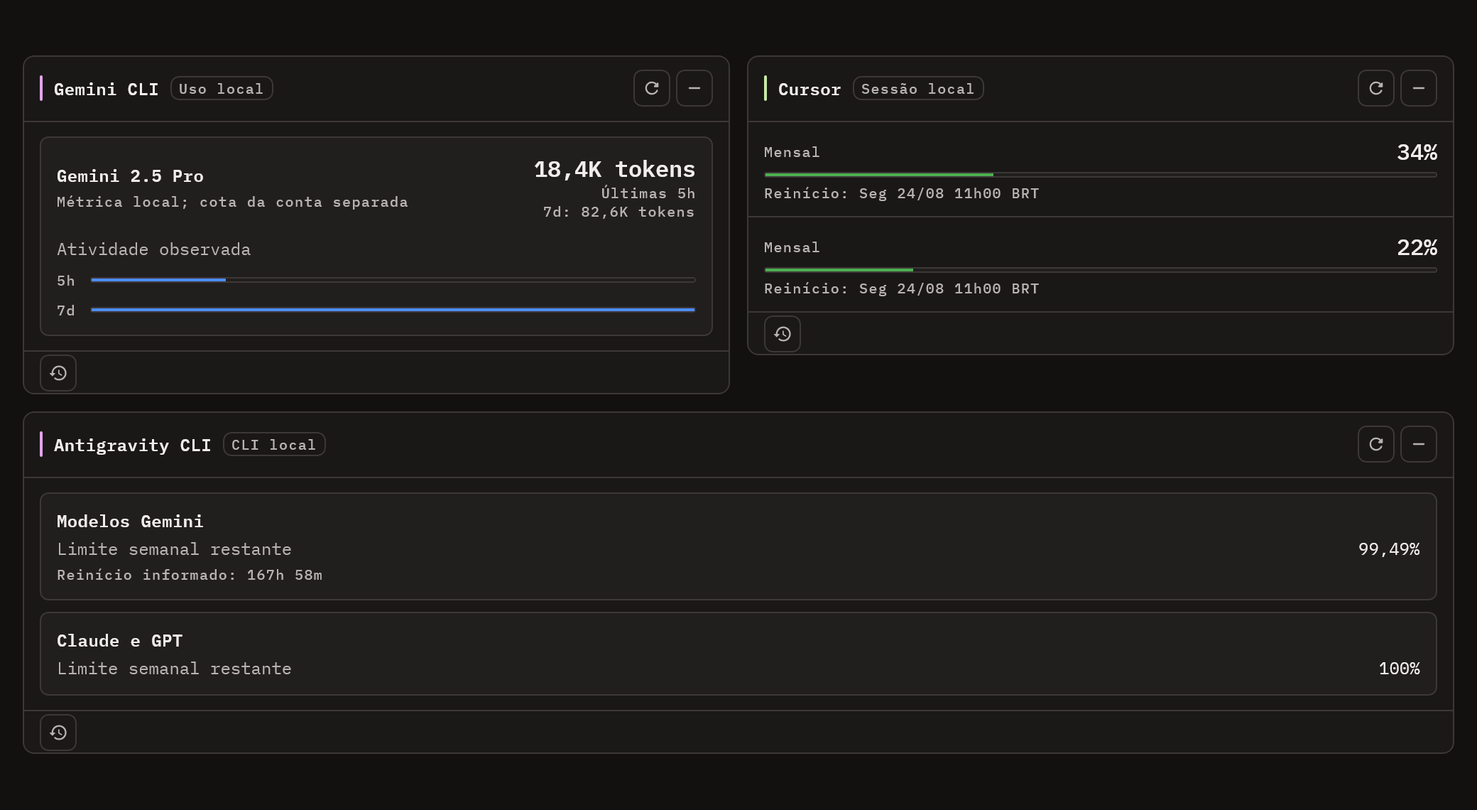
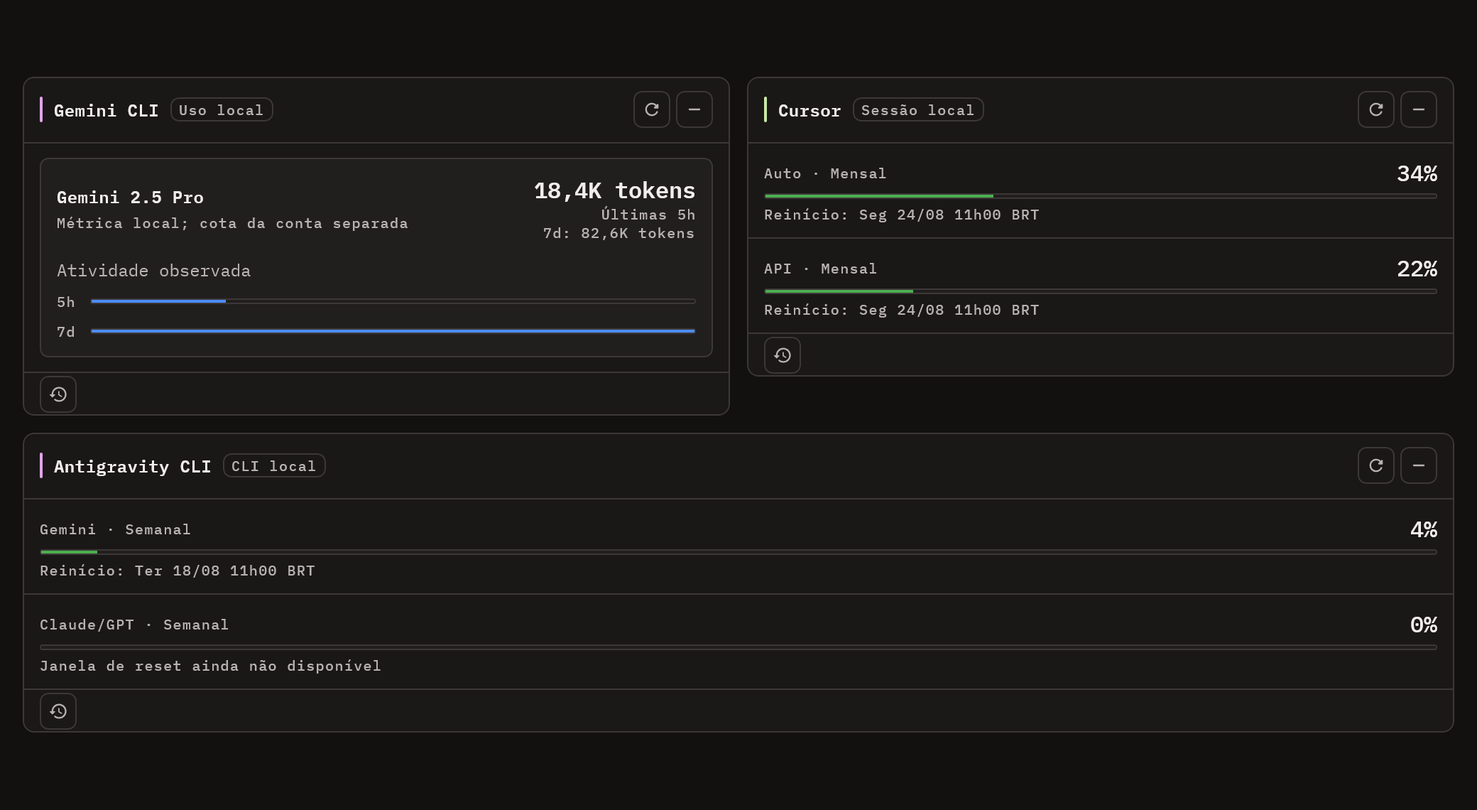
docs(integrations): sync design system, prototype and screenshots for #267
- restore the accent rationale the first commit deleted from the
  design system and record the --gemini (~294 deg) and --cursor
  (~90 deg) decision: >=20 deg from their neighbours, hue kept in the
  light variant, Gemini CLI and Antigravity sharing Google's accent
- update the mandatory prototype (docs/planos), not only the uploads
  copy: new section 4e with the three cards and the configuration
  banner, legend, Settings rows and two checklist entries
- align the uploads copy and the UI kit with the shipped cards: the
  Antigravity per-group quotas, Cursor allowance titles, no Gemini
  "no local history" banner, the restored threshold coverage copy
- regenerate img/new-integrations.png

Changed region(s): [[0.0312, 0.0614, 0.9688, 0.9211]]

diff --git a/docs/planos/prototipo-visual-opencode.html b/docs/planos/prototipo-visual-opencode.html
@@ -35,6 +35,8 @@
   --oc:         #7BD389;
   --kilo:       #E6D84E;
   --openrouter: #FF6FA8;
+  --gemini:     #E2A5E9;
+  --cursor:     #C7E9A5;
 
   --input:     #4C8DFF;
   --output:    #B07CFF;
@@ -70,7 +72,7 @@
 
     --anthropic:#1565C0; --codex:#00695C; --deepseek:#7B3FC4;
     --minimax:  #9A4A00; --oc:   #2E7D32; --kilo:    #5F5500;
-    --openrouter:#B23368;
+    --openrouter:#B23368; --gemini:#7C1D87; --cursor:#477915;
 
     --input:#1565C0; --output:#6A3FB5; --cread:#2E7D32;
     --cwrite:#8A5000; --savings:#00697A;
@@ -95,7 +97,7 @@
 
   --anthropic:#1565C0; --codex:#00695C; --deepseek:#7B3FC4;
   --minimax:  #9A4A00; --oc:   #2E7D32; --kilo:    #5F5500;
-  --openrouter:#B23368;
+  --openrouter:#B23368; --gemini:#7C1D87; --cursor:#477915;
 
   --input:#1565C0; --output:#6A3FB5; --cread:#2E7D32;
   --cwrite:#8A5000; --savings:#00697A;
@@ -110,6 +112,7 @@
   --ok:#4CAF50; --warn:#FFA726; --crit:#E86A6A; --info:#4C8DFF;
   --anthropic:#4F8CFF; --codex:#27BFA3; --deepseek:#C084FC;
   --minimax:#FF8A3D; --oc:#7BD389; --kilo:#E6D84E; --openrouter:#FF6FA8;
+  --gemini:#E2A5E9; --cursor:#C7E9A5;
   --input:#4C8DFF; --output:#B07CFF; --cread:#4CAF50;
   --cwrite:#FFA726; --savings:#26C6DA;
   --shadow-2: 0 1px 2px rgb(0 0 0 / .40);
@@ -482,6 +485,7 @@ table.dt td.num, table.dt th.num { text-align: right; }
   <a href="#dash-estados">Dashboard · estados</a>
   <a href="#atualizacao">Faixa de atualização</a>
   <a href="#novidades">Novidades da versão</a>
+  <a href="#integracoes-267">Gemini, Cursor e Antigravity</a>
   <a href="#historico">Histórico</a>
   <a href="#sessoes">Sessões CLI</a>
   <a href="#detalhe">Detalhe de sessão</a>
@@ -544,7 +548,7 @@ table.dt td.num, table.dt th.num { text-align: right; }
 </div>
 <p class="note">Todo estado carrega <b>ponto + palavra</b>. A cor reforça, não informa sozinha — é o que mantém a tela legível para quem não distingue as matizes.</p>
 
-<h3>Identidade das sete integrações</h3>
+<h3>Identidade dos fornecedores monitorados</h3>
 <div class="legend" style="margin-bottom:var(--s2)">
   <span><i style="background:var(--anthropic)"></i>Anthropic</span>
   <span><i style="background:var(--codex)"></i>Codex</span>
@@ -553,8 +557,10 @@ table.dt td.num, table.dt th.num { text-align: right; }
   <span><i style="background:var(--oc)"></i>OpenCode</span>
   <span><i style="background:var(--kilo)"></i>Kilo</span>
   <span><i style="background:var(--openrouter)"></i>OpenRouter</span>
+  <span><i style="background:var(--gemini)"></i>Google · Gemini CLI e Antigravity</span>
+  <span><i style="background:var(--cursor)"></i>Cursor</span>
 </div>
-<p class="note">Os acentos são os que já passam no <code>AppAccentsContrastTest</code> (AA 4,5:1 nas duas superfícies, matiz preservada entre temas, 20° de separação entre si). <b>Não mudam.</b> O que muda é a área: de fundo de card inteiro para um marcador de 2px, linha de gráfico e texto de valor. E a cor <code>opencode</code> continua sendo a da <b>integração</b> monitorada — não vira a cor da marca do app.</p>
+<p class="note">Os acentos são os que já passam no <code>AppAccentsContrastTest</code> (AA 4,5:1 nas duas superfícies, matiz preservada entre temas, 20° de separação entre si). <b>Não mudam sem decisão registrada</b> no <code>readme.md</code> do design system — foi assim que <code>--gemini</code> (~294°) e <code>--cursor</code> (~90°) entraram na issue #267. Nove acentos cobrem onze fontes: <code>--oc</code> é do OpenCode (Zen Free e Go) e <code>--gemini</code> é do Google (Gemini CLI e Antigravity). O que muda é a área: de fundo de card inteiro para um marcador de 2px, linha de gráfico e texto de valor. E a cor <code>opencode</code> continua sendo a da <b>integração</b> monitorada — não vira a cor da marca do app.</p>
 
 <h3 id="temas">Presets configuráveis — 8 claros e 8 escuros</h3>
 <p class="lede">O seletor da aplicação apresenta a mesma grade abaixo em Configurações → Geral. Cada cartão expõe a família de superfícies e seu acento estrutural; a seleção persistida vale para todas as janelas. Os marcadores de sucesso, atenção, erro e as cores das integrações permanecem semânticos.</p>
@@ -1000,7 +1006,7 @@ atenção: …"), que é a razão de o semáforo existir e o que os testes de co
 onde levá-la. O rodapé da janela vira <b>status bar de 30dp</b>: versão, contagem regressiva, refresh global e
 configurações. A contagem de fontes desenhada aqui como <code>4 fontes</code> <b>não foi implementada</b>: ela afirma um
 estado agregado que o app não calcula, e com uma fonte em erro o verde mentiria — escolher o tom seria inventar
-semântica que este protótipo não define. Falha de fonte já tem o banner por alvo. Preservados: múltiplos perfis Anthropic, as seis integrações, refresh individual, histórico, sessões CLI, uso do time, presença, minimização, reordenação, semáforo de risco, avisos persistentes, atualização disponível e sucesso parcial.</p>
+semântica que este protótipo não define. Falha de fonte já tem o banner por alvo. Preservados: múltiplos perfis Anthropic, todas as integrações, refresh individual, histórico, sessões CLI, uso do time, presença, minimização, reordenação, semáforo de risco, avisos persistentes, atualização disponível e sucesso parcial.</p>
 
 <h3>Acesso rápido aos modos de janela</h3>
 <p class="lede">O rodapé ganha um ícone que abre um menu com as três molduras — padrão, somente os cards e barra HUD —, com a corrente marcada (issue #187). Antes delas só existiam duas portas escondidas: dois interruptores no meio da seção "Sistema" das Configurações e duas combinações de teclado, e os dois modos alternativos só eram descobertos por acidente.</p>
@@ -1265,6 +1271,55 @@ semântica que este protótipo não define. Falha de fonte já tem o banner por 
 <p class="note"><b>O recibo do instalador não é o gatilho</b>, e chegou a ser (issue #127). No Windows o instalador o grava <b>antes</b> de relançar o app; no Linux o script só o grava <b>depois do ACK</b>, que é escrito pelo app novo já em execução — quando ele lê o arquivo, ele ainda descreve a atualização anterior. Com o recibo como condição, a janela não aparecia no Linux, em instalação manual nem no macOS, que não tem instalador automático. Ele continua dizendo <span class="v sm">Atualizado de 37.0.0</span> quando descreve a troca que trouxe o binário em execução; fora disso quem responde é a própria marca.</p>
 
 <p class="note"><b>Dois silêncios, e os dois gravam a marca.</b> <b>Instalação nova</b> — sem marca e sem recibo — não abre janela nenhuma: "novidades" para quem não tem versão anterior não descreve mudança. <b>Retrocesso</b> também não abre: anunciar a 38.0.1 vindo da 38.0.2 seria falso, e é esse ramo que reconcilia a marca depois de um rollback do updater. Nos dois casos não há requisição — pedir a release de uma versão que não vamos anunciar é rede gasta por nada.</p>
+
+<!-- ═══════════════════════════════ ISSUE #267 ═══════════════════════ -->
+<h2 id="integracoes-267">4e · Gemini CLI, Cursor e Antigravity</h2>
+<p class="lede">Três integrações com três naturezas de dado diferentes, e o card de cada uma diz qual é. Nenhuma inventa número que a fonte não informou.</p>
+<div class="g2">
+  <div>
+    <div class="cap">Gemini CLI · atividade observada</div>
+    <div class="panel">
+      <div class="phead"><span class="srcmark" style="background:var(--gemini)"></span><div class="stack" style="gap:0"><span class="ptitle">Gemini CLI</span><span class="psub">sessões locais · tokens observados</span></div><span class="sp"></span><span class="st ok">Uso local</span><button class="btn icon" type="button" aria-label="Atualizar">↻</button><button class="btn icon" type="button" aria-label="Minimizar card">–</button></div>
+      <div class="pbody flush">
+        <div class="row"><span class="k">gemini-2.5-pro</span><span class="sp"></span><span class="v">18,4 mil tok</span></div>
+        <div class="row"><span class="k">5h</span><span class="track info" style="flex:1"><i style="width:22%"></i></span><span class="v" style="white-space:nowrap;min-width:42px">18,4 mil</span></div>
+        <div class="row"><span class="k">7d</span><span class="track info" style="flex:1"><i style="width:100%"></i></span><span class="v" style="white-space:nowrap;min-width:42px">82,6 mil</span></div>
+      </div>
+    </div>
+  </div>
+  <div>
+    <div class="cap">Cursor · franquias do ciclo</div>
+    <div class="panel">
+      <div class="phead"><span class="srcmark" style="background:var(--cursor)"></span><div class="stack" style="gap:0"><span class="ptitle">Cursor</span><span class="psub">sessão local do editor</span></div><span class="sp"></span><span class="st ok">Normal</span><button class="btn icon" type="button" aria-label="Atualizar">↻</button><button class="btn icon" type="button" aria-label="Minimizar card">–</button></div>
+      <div class="pbody flush">
+        <div class="row"><div class="stack" style="gap:3px;flex:1"><div class="hstack"><span class="k">Auto · Mensal</span><span class="sp"></span><span class="v">34%</span></div><div class="track ok"><i style="width:34%"></i></div><span class="k dim">Reinício: Qui 01/10 00h00 BRT</span></div></div>
+        <div class="row"><div class="stack" style="gap:3px;flex:1"><div class="hstack"><span class="k">API · Mensal</span><span class="sp"></span><span class="v">11%</span></div><div class="track ok"><i style="width:11%"></i></div></div></div>
+      </div>
+    </div>
+  </div>
+  <div>
+    <div class="cap">Antigravity CLI · um limite semanal por grupo de modelos</div>
+    <div class="panel">
+      <div class="phead"><span class="srcmark" style="background:var(--gemini)"></span><div class="stack" style="gap:0"><span class="ptitle">Antigravity CLI</span><span class="psub">agy --print /usage</span></div><span class="sp"></span><span class="st ok">Normal</span><button class="btn icon" type="button" aria-label="Atualizar">↻</button><button class="btn icon" type="button" aria-label="Minimizar card">–</button></div>
+      <div class="pbody flush">
+        <div class="row"><div class="stack" style="gap:3px;flex:1"><div class="hstack"><span class="k">Gemini · Semanal</span><span class="sp"></span><span class="v">5%</span></div><div class="track ok"><i style="width:5%"></i></div><span class="k dim">Reinício: Qua 30/09 18h57 BRT</span></div></div>
+        <div class="row"><div class="stack" style="gap:3px;flex:1"><div class="hstack"><span class="k">Claude/GPT · Semanal</span><span class="sp"></span><span class="v">0%</span></div><div class="track"><i style="width:0%"></i></div></div></div>
+      </div>
+    </div>
+  </div>
+  <div>
+    <div class="cap">Configuração pendente — banner sem "Tentar novamente"</div>
+    <div class="panel">
+      <div class="phead"><span class="srcmark" style="background:var(--gemini)"></span><span class="ptitle">Antigravity CLI</span><span class="sp"></span><span class="st off">Indisponível</span></div>
+      <div class="pbody">
+        <div class="banner warn"><span class="bar"></span><span class="bd"><b>Antigravity CLI não encontrado</b><br>Instale o Antigravity CLI (agy) ou desative esta integração em Configurações &gt; APIs. O monitor procura o executável agy em %LOCALAPPDATA%\agy\bin e no PATH, nunca um atalho .cmd ou .bat.</span></div>
+      </div>
+    </div>
+  </div>
+</div>
+<p class="note"><b>Gemini CLI é atividade observada</b>, com o mesmo desenho do OpenCode Zen Free e do Kilo: tokens por modelo em 5h e 7d, sem barra de percentual contra teto, porque contagem local não conhece limite da conta Google. Sem <code>~/.gemini/tmp</code> o card mostra o estado vazio e <b>não</b> um banner — o Gemini CLI nunca rodou na máquina.</p>
+<p class="note"><b>Cursor e Antigravity são cotas</b>, e por isso entram em histórico, limiar, projeção e HUD. As duas fontes têm mais de uma cota do mesmo <code>periodType</code> — franquias do mesmo ciclo mensal, um limite semanal por grupo de modelos —, e o título do bloco leva o nome da franquia ou do grupo antes da janela: sem isso, dois blocos diriam "Semanal". A janela intacta do Antigravity (<code>Claude/GPT</code> em 0%) <b>não mostra reinício</b>: o CLI informa "agora + 7 dias", que anda a cada chamada.</p>
+<p class="note"><b>Falha que não se resolve tentando de novo é configuração.</b> Não instalado, versão do CLI anterior à verificada, sessão ausente ou recusada, plano do Cursor sem nada medido e a coleta do Antigravity pausada pelo disjuntor saem como banner sem botão e sem toast a cada coleta. Quando a coleta falha depois de uma leitura boa, o card mantém os números com o aviso de exclamação no cabeçalho: "A coleta mais recente falhou. Os números são da última leitura válida e podem estar desatualizados."</p>
 
 <!-- ═══════════════════════════════ HISTÓRICO ═════════════════════════ -->
 <h2 id="historico">5 · Histórico</h2>
@@ -1907,6 +1962,9 @@ caso que a detecção existe para pegar. <b>Desligado o interruptor, o segmentad
     <div class="row"><span class="srcmark" style="background:var(--oc)"></span><span class="v sm" style="flex:1">OpenCode Go</span><span class="st ok">Chave configurada</span><button class="btn ghost icon" type="button" aria-label="Gerenciar chave">✎</button><span class="sw on"></span></div>
     <div class="row"><span class="srcmark" style="background:var(--openrouter)"></span><span class="v sm" style="flex:1">OpenRouter</span><span class="st ok">Chave configurada</span><button class="btn ghost icon" type="button" aria-label="Gerenciar chave">✎</button><span class="sw on"></span></div>
     <div class="row"><span class="srcmark" style="background:var(--kilo)"></span><span class="v sm" style="flex:1">Kilo Free</span><span class="st off">Desativada</span><span class="sw"></span></div>
+    <div class="row"><span class="srcmark" style="background:var(--gemini)"></span><span class="v sm" style="flex:1">Gemini CLI</span><span class="st off">Desativada</span><span class="sw"></span></div>
+    <div class="row"><span class="srcmark" style="background:var(--cursor)"></span><span class="v sm" style="flex:1">Cursor</span><span class="st off">Desativada</span><span class="sw"></span></div>
+    <div class="row"><span class="srcmark" style="background:var(--gemini)"></span><span class="v sm" style="flex:1">Antigravity CLI</span><span class="st off">Desativada</span><span class="sw"></span></div>
   </div></div></div>
 </div>
 <p class="note"><b>Ativação de MiniMax, DeepSeek, OpenCode Go e OpenRouter.</b> Ao ligar uma dessas integrações sem chave cadastrada, o interruptor não é persistido imediatamente: abre-se o diálogo abaixo. A chave é mascarada por padrão, pode ser revelada pelo olho e só habilita a integração depois de <b>Salvar</b>. Ela fica em armazenamento local protegido; variáveis de ambiente não são lidas.</p>
@@ -2177,6 +2235,8 @@ O app fechou inesperadamente.
 <!-- ═══════════════════════════════ CHECKLIST ═════════════════════════ -->
 <h2 id="checklist">15 · O que este protótipo não decide</h2>
 <div class="panel"><div class="pbody flush">
+  <div class="row"><span class="st warn">Risco conhecido</span><span class="v sm" style="flex:1">O Cursor usa <code>cursor.com/api/usage-summary</code>, rota <b>não documentada</b>. Formato novo vira falha que preserva a última leitura, nunca consumo zero — mas só fixtures cobrem o Cursor: ele não está instalado na máquina de desenvolvimento</span><span class="k">issue #267</span></div>
+  <div class="row"><span class="st warn">Decisão registrada</span><span class="v sm" style="flex:1">O Antigravity lê <code>agy --print /usage</code>, que a doc oficial diz ser respondido pelo próprio CLI; a issue vetava <code>-p</code> por consumo. O portão é a versão medida (1.2.9) e o disjuntor exige <code>num_turns = 0</code> e <code>total_tokens = 0</code> no envelope</span><span class="k">issue #267</span></div>
   <div class="row"><span class="st warn">A verificar</span><span class="v sm" style="flex:1">Assinatura exata da API de carregamento de fonte no Compose Desktop 1.7.1</span><span class="k">commit C3</span></div>
   <div class="row"><span class="st warn">Risco aceito</span><span class="v sm" style="flex:1">O <code>.icns</code> só é validável no job <code>build-macos</code> do release</span><span class="k">commit J2</span></div>
   <div class="row"><span class="st warn">Risco conhecido</span><span class="v sm" style="flex:1">Fonte embutida no PDFBox recalcula largura de todas as colunas</span><span class="k">commit K1</span></div>

diff --git a/docs/design-system/uploads/prototipo-visual-opencode.html b/docs/design-system/uploads/prototipo-visual-opencode.html
@@ -549,7 +549,6 @@ table.dt td.num, table.dt th.num { text-align: right; }
     <div class="phead"><span class="ptitle">AppBanner</span></div>
     <div class="pbody">
       <div class="banner warn"><span class="bar"></span><div class="stack" style="gap:2px"><span class="bt">Anthropic — Padrão</span><span class="bd">Limite de requisições atingido. Aguarde antes de tentar de novo.</span></div><span class="sp"></span><button class="btn ghost" type="button">Tentar de novo</button></div>
-      <div class="banner warn"><span class="bar"></span><div class="stack" style="gap:2px"><span class="bt">Gemini CLI sem histórico local</span><span class="bd">Nenhuma sessão local foi encontrada para este perfil. Use o Gemini CLI neste perfil e atualize o monitor novamente.</span></div></div>
       <div class="banner crit"><span class="bar"></span><div class="stack" style="gap:2px"><span class="bt">Créditos de uso indisponíveis</span><span class="bd">A resposta veio sem limite mensal. A linha de créditos não é exibida nesta coleta.</span></div></div>
       <div class="banner info"><span class="bar"></span><div class="stack" style="gap:2px"><span class="bt">Versão 36.0.0 disponível</span></div><span class="sp"></span><button class="btn ghost" type="button">Ver release</button></div>
     </div>
@@ -752,13 +751,13 @@ table.dt td.num, table.dt th.num { text-align: right; }
       <!-- Cursor · sessão pessoal existente -->
       <div class="panel">
         <div class="phead"><span class="srcmark" style="background:var(--cursor)"></span><span class="ptitle">Cursor</span><span class="sp"></span><span class="st ok">Normal</span><button class="btn icon" type="button" aria-label="Atualizar">↻</button><button class="btn icon" type="button" aria-label="Minimizar card">–</button></div>
-        <div class="pbody flush"><div class="row"><div class="stack" style="gap:3px;flex:1"><div class="hstack"><span class="k">Auto</span><span class="sp"></span><span class="v">38%</span></div><div class="track ok"><i style="width:38%"></i></div><span class="k dim">Fim do ciclo informado: 01/10/2026</span></div></div><div class="row"><div class="stack" style="gap:3px;flex:1"><div class="hstack"><span class="k">API</span><span class="sp"></span><span class="v">11%</span></div><div class="track ok"><i style="width:11%"></i></div></div></div></div>
+        <div class="pbody flush"><div class="row"><div class="stack" style="gap:3px;flex:1"><div class="hstack"><span class="k">Auto · Mensal</span><span class="sp"></span><span class="v">38%</span></div><div class="track ok"><i style="width:38%"></i></div><span class="k dim">Fim do ciclo informado: 01/10/2026</span></div></div><div class="row"><div class="stack" style="gap:3px;flex:1"><div class="hstack"><span class="k">API · Mensal</span><span class="sp"></span><span class="v">11%</span></div><div class="track ok"><i style="width:11%"></i></div></div></div></div>
       </div>
 
-      <!-- Antigravity CLI · campos textuais explícitos de /usage -->
+      <!-- Antigravity CLI · um limite semanal por grupo de modelos, lido de agy --print /usage -->
       <div class="panel">
-        <div class="phead"><span class="srcmark" style="background:var(--gemini)"></span><div class="stack" style="gap:0"><span class="ptitle">Antigravity CLI</span><span class="psub">painel oficial /usage</span></div><span class="sp"></span><span class="st ok">Informado pelo CLI</span><button class="btn icon" type="button" aria-label="Atualizar">↻</button><button class="btn icon" type="button" aria-label="Minimizar card">–</button></div>
-        <div class="pbody flush"><div class="row"><div class="stack" style="gap:var(--s1);flex:1"><span class="v sm">Modelos Gemini</span><span class="k">Limite semanal restante · 99,49%</span><span class="k dim">Reinício informado · 167h 58m</span></div></div><div class="row"><div class="stack" style="gap:var(--s1);flex:1"><span class="v sm">Claude e GPT</span><span class="k">Limite semanal restante · 100%</span></div></div></div>
+        <div class="phead"><span class="srcmark" style="background:var(--gemini)"></span><div class="stack" style="gap:0"><span class="ptitle">Antigravity CLI</span><span class="psub">agy --print /usage</span></div><span class="sp"></span><span class="st ok">Normal</span><button class="btn icon" type="button" aria-label="Atualizar">↻</button><button class="btn icon" type="button" aria-label="Minimizar card">–</button></div>
+        <div class="pbody flush"><div class="row"><div class="stack" style="gap:3px;flex:1"><div class="hstack"><span class="k">Gemini · Semanal</span><span class="sp"></span><span class="v">5%</span></div><div class="track ok"><i style="width:5%"></i></div><span class="k dim">Reinício: Qua 30/09 18h57 BRT</span></div></div><div class="row"><div class="stack" style="gap:3px;flex:1"><div class="hstack"><span class="k">Claude/GPT · Semanal</span><span class="sp"></span><span class="v">0%</span></div><div class="track"><i style="width:0%"></i></div></div></div></div>
       </div>
 
     </div>
@@ -840,7 +839,7 @@ semântica que este protótipo não define. Falha de fonte já tem o banner por 
         <span class="k">Atualizando…</span>
         <button class="btn icon" type="button" disabled aria-label="Atualizando">↻</button>
       </div>
-  <div class="pbody flush">
+      <div class="pbody flush">
         <div class="row"><div class="stack" style="gap:3px;flex:1;opacity:.5">
           <div class="hstack"><span class="k">Codex atual</span><span class="sp"></span><span class="v">23%</span></div>
           <div class="track"><i style="width:23%"></i></div>

diff --git a/docs/design-system/ui_kits/desktop-app/Settings.jsx b/docs/design-system/ui_kits/desktop-app/Settings.jsx
@@ -20,9 +20,9 @@ const APIS = [
   { nome: 'OpenCode Go', source: 'opencode', origem: 'GET opencode.ai/zen/go/v1/usage', req: 'chave da API do OpenCode', on: true },
   { nome: 'Kilo Free', source: 'kilo', origem: 'leitura local de kilo.db', req: 'base local do Kilo', on: false },
   { nome: 'OpenRouter', source: 'openrouter', origem: 'GET openrouter.ai/api/v1/credits', req: 'chave da API do OpenRouter', on: true },
-  { nome: 'Gemini CLI', source: 'gemini', origem: 'leitura local de ~/.gemini/tmp/*/chats/session-*.jsonl', req: 'sessões existentes; tokens não representam quota', on: false },
+  { nome: 'Gemini CLI', source: 'gemini', origem: 'leitura local de ~/.gemini/tmp/*/chats/*.jsonl', req: 'sessões existentes; tokens não representam quota', on: false },
   { nome: 'Cursor', source: 'cursor', origem: 'GET cursor.com/api/usage-summary (rota pessoal sem contrato público)', req: 'sessão existente em state.vscdb', on: false },
-  { nome: 'Antigravity CLI', source: 'gemini', origem: 'comando oficial interativo /usage', req: 'agy no PATH e CLI autenticado', on: false }
+  { nome: 'Antigravity CLI', source: 'gemini', origem: 'agy --print /usage (respondido pelo CLI, sem turno de modelo)', req: 'agy 1.2.9+ instalado e autenticado', on: false }
 ];
 
 export function Settings() {
@@ -67,14 +67,15 @@ export function Settings() {
                 <AppTextField label="Crítico" value="90" style={{ width: 90 }} />
                 <AppTextField label="Esgotado" value="100" style={{ width: 90 }} />
               </div>
-              {/* O alcance é declarado na tela (issue #194): saldo pré-pago não tem
-                  teto percentual, e atividade ou métricas fora do modelo de cotas
-                  não passam pelo limiar. A frase sai sempre, inclusive com o alerta
+              {/* O alcance é declarado na tela (issue #194): saldo pré-pago nasce com
+                  used = 0 e atividade observada com total = 0, então nessas cinco
+                  fontes nenhum limiar é avaliado. Antigravity e Cursor são cotas e
+                  entram (issue #267). A frase sai sempre, inclusive com o alerta
                   desligado — ali ela explica o que ligar não vai cobrir. */}
               <span style={{ fontFamily: 'var(--sans)', fontSize: 'var(--t12)', color: 'var(--muted)' }}>
-                O limiar é avaliado contra cotas normalizadas. Saldo pré-pago não tem teto
-                (DeepSeek, OpenRouter); atividade observada ou métricas fora do modelo de cotas
-                (Antigravity CLI, Gemini CLI, Kilo Free, OpenCode Zen Free) não passam por essa avaliação.
+                O limiar mede percentual contra o teto da cota. Saldo pré-pago não tem teto
+                (DeepSeek, OpenRouter) e atividade observada não informa limite
+                (OpenCode Zen Free, Kilo Free, Gemini CLI): nessas fontes nenhum limiar é avaliado.
               </span>
               <AppSwitch checked label="Alertar quando uma sessão CLI saturar" />
               <AppSwitch checked label="Notificação nativa do sistema" />

diff --git a/docs/design-system/ui_kits/desktop-app/Dashboard.jsx b/docs/design-system/ui_kits/desktop-app/Dashboard.jsx
@@ -216,7 +216,7 @@ const CARDS = [
     tooltip: 'Tokens locais observados. A quota da conta Google é uma medida separada.',
     nav: 0,
     reported: [
-      { label: 'Gemini 3.1 Pro · tokens (5h)', value: '18,4 mil', detail: 'Tokens e sessões locais; quota da conta separada' },
+      { label: 'Gemini 3.1 Pro · tokens (5h)', value: '18,4 mil', detail: 'Tokens locais; quota da conta separada' },
       { label: 'Gemini 3.1 Pro · tokens (7d)', value: '142 mil' }
     ]
   },
@@ -230,22 +230,22 @@ const CARDS = [
     tooltip: 'Percentuais fornecidos pela sessão do Cursor; rota pessoal sem contrato público.',
     nav: 0,
     quotas: [
-      { label: 'Auto', value: '38%', percent: 38, level: 'ok', reset: 'Fim do ciclo: 01/10/2026' },
-      { label: 'API', value: '11%', percent: 11, level: 'ok', reset: 'Fim do ciclo: 01/10/2026' }
+      { label: 'Auto · Mensal', value: '38%', percent: 38, level: 'ok', reset: 'Fim do ciclo: 01/10/2026' },
+      { label: 'API · Mensal', value: '11%', percent: 11, level: 'ok', reset: 'Fim do ciclo: 01/10/2026' }
     ]
   },
   {
     id: 'antigravity',
     source: 'gemini',
     title: 'Antigravity CLI',
-    subtitle: 'painel oficial /usage · cotas semanais informadas',
+    subtitle: 'agy --print /usage · um limite semanal por grupo de modelos',
     level: 'ok',
-    status: 'Informado pelo CLI',
-    tooltip: 'Percentuais restantes exibidos explicitamente em cotas compartilhadas por grupo.',
+    status: 'Normal',
+    tooltip: 'Cota por grupo de modelos, lida do /usage que o próprio CLI responde, sem turno de modelo.',
     nav: 0,
-    reported: [
-      { label: 'Modelos Gemini · limite semanal restante', value: '99,49%', detail: 'Reinício informado: 167h 58m' },
-      { label: 'Claude e GPT · limite semanal restante', value: '100%' }
+    quotas: [
+      { label: 'Gemini · Semanal', value: '5%', percent: 5, level: 'ok', reset: 'Reinício: Qua 30/09 18h57 BRT' },
+      { label: 'Claude/GPT · Semanal', value: '0%', percent: 0, level: 'neutral', reset: 'Janela de reset ainda não disponível' }
     ]
   }
 ];

diff --git a/docs/design-system/tokens/colors.css b/docs/design-system/tokens/colors.css
@@ -23,9 +23,12 @@
   --info:      #4C8DFF;
 
   /* integration identity — AA 4.5:1 on both surfaces, hue preserved across
-     themes, >=20 degrees apart from each other. Same-vendor tools may share
-     an accent; unrelated sources stay distinct. Gemini CLI and Antigravity
-     share Google's identity. */
+     themes, >=20 degrees apart from each other. These do not change without a
+     recorded decision in readme.md. Nine accents cover eleven sources: --oc is
+     the OpenCode vendor, worn by both the free Zen card and the paid Go card,
+     and --gemini is Google's, worn by Gemini CLI and Antigravity. --openrouter
+     and --cursor are their own identities — neither is the vendor of any
+     other source here. */
   --anthropic:  #4F8CFF;
   --codex:      #27BFA3;
   --deepseek:   #C084FC;

diff --git a/docs/design-system/readme.md b/docs/design-system/readme.md
@@ -69,14 +69,26 @@ the media query alone, because the app owns a theme switch that must win.
 Depth comes from the **1dp border and from spacing** — not from shadow, not from gradient.
 No accent glow on top of surfaces, no tinted cards, no colored card backgrounds.
 
-**Color area.** Integration accents target AA 4.5:1 on both surfaces, preserve hue across themes,
-and stay ≥20° apart when they represent different vendors. What changed from the old UI is the
-**area**: from whole-card fill to a 2px marker, a chart line, and value text.
+**Color area.** The nine integration accents are fixed (AA 4.5:1 on both surfaces, hue preserved
+across themes, ≥20° apart). What changed from the old UI is the **area**: from whole-card fill
+to a 2px marker, a chart line, and value text. `--oc` is the color of the monitored OpenCode
+integration — never the app's brand color.
 
-**Accent ownership.** The accent is the identity of the *vendor*, not of one card: OpenCode Zen
-Free and OpenCode Go share `--oc`, and Gemini CLI and Antigravity share `--gemini`. Other vendors
-keep distinct hues, with a 20° minimum separation. Same-vendor cards remain distinguishable by
-their names and metric labels; color never identifies a quota by itself.
+**Nine accents, eleven sources.** The accent is the identity of the *vendor*, not of one card:
+OpenCode Zen Free (read from the local SQLite) and OpenCode Go (the paid subscription, read over
+HTTP) are two sources that both wear `--oc`. Adding a hue would have to clear AA on both
+surfaces and stay ≥20° from all the others — a real cost, paid to distinguish two plans of the same
+product. What separates the two cards is the title, and "colour never informs alone" already
+guarantees that is enough. `--openrouter` does **not** reuse any other accent: OpenRouter is not the
+vendor of any source already monitored, so sharing a hue would visually associate two unrelated
+companies. Rose/magenta (~336°) fills the arc between `--deepseek` (270°) and `--minimax` (24°).
+
+`--gemini` and `--cursor` came with issue #267 under the same two rules. **Gemini CLI and
+Antigravity share `--gemini`**: both are Google tools, exactly the OpenCode case. `--gemini` is
+orchid at ~294° — 24° from `--deepseek` and 42° from `--openrouter`. **Cursor gets `--cursor`**:
+it is the vendor of no other source. Lime at ~90° sits 36° from `--kilo` (54°) and 40° from `--oc`
+(130°). Both keep their hue in the light variant (`#7C1D87`, `#477915`) and are checked by
+`AppAccentsContrastTest` like the other seven.
 
 **Type.** Two families. **IBM Plex Mono** for titles, labels, numbers, tables and window chrome
 (tabular alignment); **IBM Plex Sans** for explanatory prose only. Weights 400/500/600. Six sizes:

diff --git a/docs/planos/integracoes-267-ajustes-execucao.md b/docs/planos/integracoes-267-ajustes-execucao.md
@@ -104,3 +104,4 @@ saída por pipe desta versão não imprime. O envelope JSON evita essa dependên
 | A03 | Gemini: `$set` e `$rewindTo` sem apagar chamadas cobradas, gravação com tokens vence, raiz ausente como card vazio, pré-filtro por mtime e cache, sem a linha falsa de sessões | `gradlew.bat desktopTest --tests "com.usagemonitor.data.*Gemini*" --tests "com.usagemonitor.presentation.UiStateTest" --tests "com.usagemonitor.presentation.ui.DashboardScreenWarningsTest" --tests "com.usagemonitor.ui.ComponentTest"` | BUILD SUCCESSFUL |
 | A04 | Cursor: formatos enterprise/team, saturação acima de 100, sentinela sem fim de ciclo, total misto fora, falhas tipadas como configuração, rede sem embrulho, token fora do `toString`, SQLite com `busy_timeout` e `immutable=1` | `gradlew.bat desktopTest --tests "com.usagemonitor.data.*Cursor*" --tests "com.usagemonitor.presentation.ui.DashboardScreenWarningsTest" --tests "com.usagemonitor.presentation.UiStateTest" --tests "com.usagemonitor.ui.ComponentTest"` | BUILD SUCCESSFUL. Cursor não está instalado nesta máquina: os formatos ficam cobertos só por fixtures |
 | A05 | Cache preservado de Gemini, Cursor e Antigravity marcado com `SOURCE_UNSTABLE`, com texto próprio fora do Codex; conjunto nomeado no lugar do literal; ramo duplicado do `ApiKeyProbe` | `gradlew.bat desktopTest --tests "com.usagemonitor.presentation.DashboardViewModelTest" --tests "com.usagemonitor.ui.ComponentTest"` | BUILD SUCCESSFUL |
+| A06 | Design system: justificativa dos acentos restaurada e decisão de `--gemini`/`--cursor` registrada (294° e 90°, 20°+ dos vizinhos); kit, protótipo obrigatório (seção 4e, legenda, APIs, checklist) e cópia em `uploads/` alinhados; captura `img/new-integrations.png` regenerada | `gradlew.bat generateScreenshots` + `gradlew.bat allTests` | BUILD SUCCESSFUL em 4m05s, 2077 testes, 0 falhas, 0 ignorados |
